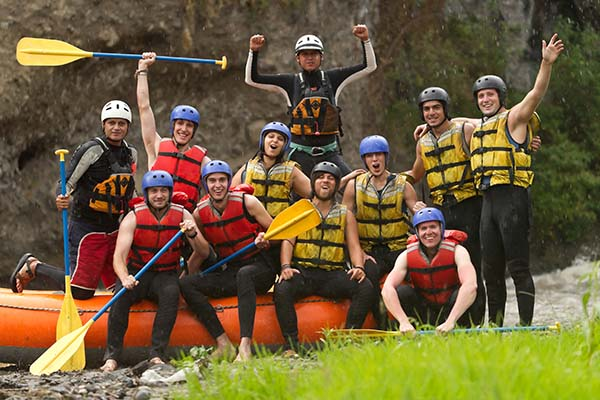
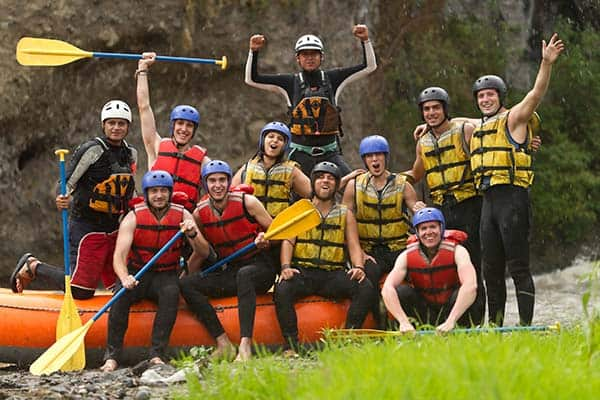
W04-Rafting Assignment

diff --git a/wwr/about.html b/wwr/about.html
@@ -12,7 +12,7 @@
     <header>
         <img src="images/z-wwr-crossedoars.png" alt="Logo of White Water Rafting">
         <nav>
-            <ul>
+            <ul class = "navigation">
                 <li><a href="index.html">Home</a></li>
                 <li><a href="about.html">About Us</a></li>
                 <li><a href="trips.html">Trips</a></li>
@@ -29,16 +29,40 @@
             <p>Lorem ipsum dolor sit amet consectetur adipisicing elit. Aliquam labore, laborum molestias distinctio doloremque totam?</p>
             </article>
         </div>
-        <section>
+        <section class = "history">
             <h2>
                 History
             </h2>
             <p>Lorem ipsum dolor sit amet consectetur, adipisicing elit. Harum blanditiis incidunt quasi voluptatibus ad voluptas suscipit ea, autem quidem iste?</p>
+            <img src="images/historyrft.jpg" alt="Image of rafting equipment.">
+            <p>Lorem ipsum dolor sit amet consectetur adipisicing elit. Beatae doloremque vero facilis sequi veniam vitae ducimus, corrupti expedita labore unde?</p>
         </section>
-        <section>
+        <section class="adventures">
             <h2>
                 Adventure Awaits You!
             </h2>
+            <div class="adventure-images">
+                    <figure>
+                        <img src="images/adventure1.jpg" alt="Rafters navigating Los Dientes del Diablo rapid">
+                        <figcaption>Los Dientes del Diablo</figcaption>
+                    </figure> 
+                    <figure>
+                        <img src="images/adventure2.jpg" alt="Rafters navigating Big Mallard rapid">
+                        <figcaption>Big Mallard</figcaption>
+                    </figure>
+                    <figure>
+                    <img src="images/adventure3.jpg" alt="Rafters on the Half Day Adventure trip">
+                    <figcaption>Half Day Adventure</figcaption>
+                    </figure>
+                    <figure>
+                        <img src="images/adventure4.jpg" alt="Rafters on the Serpent's Bend trip">
+                        <figcaption>Serpent's Bend</figcaption>
+                    </figure>
+                    <figure>
+                        <img src="images/adventure5.jpg" alt="Rafters navigating the Devil's Gate Run">
+                        <figcaption>Devil's Gate Run</figcaption>
+                    </figure>
+            </div>
         </section>
     </main>
     <footer>

diff --git a/wwr/styles/rafting.css b/wwr/styles/rafting.css
@@ -14,6 +14,14 @@
  header {
     background-color: var(--primary-color);
     color: var(--accent2-color);
+    display:grid;
+    grid-template-columns: auto 1fr;
+    align-items: center;
+    padding: 8px 16px;
+ }
+
+ header img {
+   height: 80px;
  }
 
  body {
@@ -36,10 +44,7 @@
     padding: 8px;
  }
 
- .socialmedia a {
-    text-decoration: none;
- }
-
+ 
  .hero{
     position: relative;
  }
@@ -69,7 +74,9 @@
     text-align: center;
     opacity: 0.7;
     background-color: var(--accent1-color);
-    color: #fff
+    color: #fff;
+    left: 0;
+    margin: 0;
  }
 
  .hero article img {
@@ -81,11 +88,85 @@
     width: 32px;
     height: 32px;
 }
+
+.socialmedia a {
+    text-decoration: none;
+ }
+
+ .socialmedia{
+   display: flex;
+   gap: 8px;
+ }
+
 header nav a {
     color: var(--accent2-color);
+    text-decoration: none;
 }
 
-.hero article {
-    left: 0;
-    margin: 0;
+.navigation a {
+   border: 1px solid white;
+   padding: 4px 12px;
+   border-radius: 4px;
+}
+
+.navigation {
+    display: flex;
+    list-style: none;
+   justify-content: flex-end;
+ 
+}
+
+.history {
+   display: grid;
+   grid-template-columns: repeat(3, 1fr);
+   gap: 16px;
+   align-items: center;
+}
+
+.history h2{
+   grid-column: 1/4;
+   text-align: center;
+}
+
+.history{
+   display: grid;
+   grid-template-columns: repeat(3,1fr);
+   gap: 16px;
+   align-items: center;
+}
+
+.history img {
+    width: 100%;
+    height: auto;
+}
+
+.adventures {
+   text-align: center;
+}
+
+.adventure-images{
+    display: flex;
+    justify-content: space-between;
+    gap: 8px;
+}
+
+.adventure-images figure {
+    width: 18%;
+}
+
+.adventures img {
+    width: 100%;
+    height: 150px;
+    object-fit: cover;
+}
+
+.adventures figcaption {
+    text-align: center;
+}
+
+
+footer{
+   display: flex;
+   justify-content: space-between;
+   align-items: center;
 }
